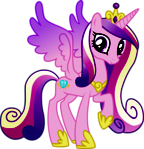
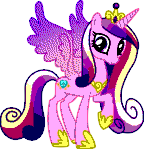
manually dither some images, swap out Babs and Celestia

diff --git a/src/pony.c b/src/pony.c
@@ -281,7 +281,7 @@ static void window_unload(Window *window) {
 static void init(void) {
   // For testing a specific image:
   /*for (i = 0; i < (sizeof(images) / sizeof(images[0])); i++) {
-    images[i] = RESOURCE_ID_PONY48;
+    images[i] = RESOURCE_ID_PONY46;
   }*/
   bool black_on_white = true;
   if (persist_exists(0)) {

diff --git a/README.md b/README.md
@@ -47,14 +47,14 @@ Many thanks to the following vector artists for their vectors:
 * [TecknoJock](http://tecknojock.deviantart.com/art/Spitfire-208286741)
 * [StarshineCelestalis](http://starshinecelestalis.deviantart.com/art/Soarin-Royal-Wedding-Vector-295757052)
 * [Kishmond](http://kishmond.deviantart.com/art/Braeburn-1-207192020)
-* [bobsicle0](http://bobsicle0.deviantart.com/art/Celestia-Everything-Went-Better-Than-Expected-448614547)
+* [Pilot231](http://pilot231.deviantart.com/art/Princess-Celestia-543173725)
 * [NightFlyer22](http://nightflyer22.deviantart.com/art/You-can-t-get-away-from-your-own-shadow-533039435)
 * [BlackGryph0n](http://blackgryph0n.deviantart.com/art/Cheerilee-is-not-amused-268803188)
 * [Godoffury](http://godoffury.deviantart.com/art/Queen-Chrysalis-443024992)
 * [Skie-Vinyl](http://skie-vinyl.deviantart.com/art/Cloudchaser-437322873)
 * [AzizTheWazon](http://azizthewazon.deviantart.com/art/S02E22-Flitter-307896268)
 * [Creshosk](http://creshosk.deviantart.com/art/Sad-Eyed-Apple-Bloom-245293300)
-* [irestorm-CAN](http://firestorm-can.deviantart.com/art/Babs-Seed-Eep-339700251)
+* [TheTunderstormBrony](http://thetunderstormbrony.deviantart.com/art/Babs-Seed-chalange-339926448)
 * [Atmospark](http://atmospark.deviantart.com/art/Scoots-is-Oh-So-Happy-315644758)
 * [MoongazePonies](http://moongazeponies.deviantart.com/art/Sweetie-Belle-being-adorable-204345679)
 * [PixelKitties](http://pixelkitties.deviantart.com/art/Coco-Pommel-is-Best-Pony-Next-to-Trixie-of-course-424650960)
